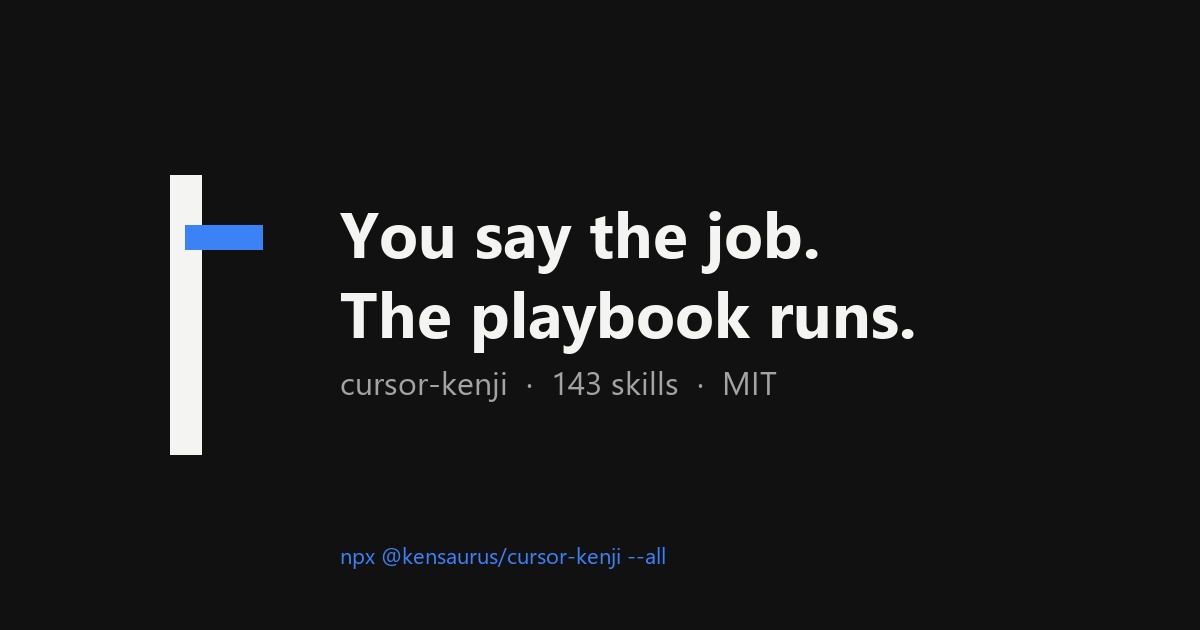
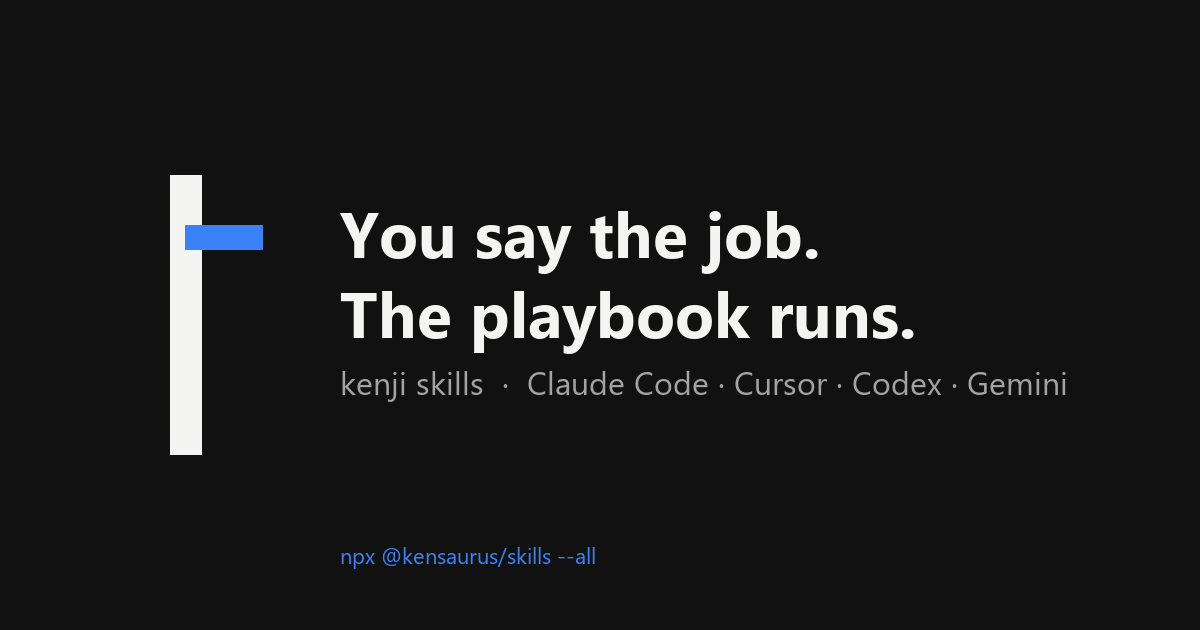
feat(installer): --typecheck-hook sets up the background typecheck per repo; re-render brand images
- npx @kensaurus/skills --typecheck-hook [script], run from a repo root, copies stop-typecheck.mjs to .claude/hooks/ and registers it as an asyncRewake Stop hook in .claude/settings.json. It is idempotent, keeps the user's hooks and settings, warns about a remaining blocking typecheck hook, and refuses a repo without the script. Per repo only: a global Stop hook would run in every repo.
- stop-typecheck.mjs exits 0 when package.json lacks the script, instead of waking the agent with a missing-script error.
- assets/og.png, site/og.png and the README hero images show kenji skills and the current counts. The OG image lists the tools instead of a count, so it can't go stale.

Changed region(s): [[0.2775, 0.573, 0.8942, 0.6333], [0.4008, 0.8746, 0.555, 0.9048]]

diff --git a/docs/screenshots/src/showcase.html b/docs/screenshots/src/showcase.html
@@ -194,8 +194,8 @@
     const views = {
       hero: `
         <div class="top">
-          <div class="brand">kenji <span>playbooks for your coding agent</span></div>
-          <div class="meta">143 skills · 55 commands · 4 tools</div>
+          <div class="brand">kenji skills <span>playbooks for your coding agent</span></div>
+          <div class="meta">158 skills · 63 commands · 4 tools</div>
         </div>
         <div>
           <div class="headline">You say the job. The playbook runs.</div>

diff --git a/scripts/render-brand-assets.py b/scripts/render-brand-assets.py
@@ -65,7 +65,8 @@ def og(path: Path) -> None:
     x = 340
     d.text((x, 188), "You say the job.", font=title, fill=BONE)
     d.text((x, 268), "The playbook runs.", font=title, fill=BONE)
-    d.text((x, 360), "kenji  ·  143 skills  ·  MIT", font=sub, fill=MUTED)
+    # Tool names, not a count: a count goes stale every release.
+    d.text((x, 360), "kenji skills  ·  Claude Code · Cursor · Codex · Gemini", font=sub, fill=MUTED)
     d.text((x, 540), "npx @kensaurus/skills --all", font=micro, fill=BLUE)
     im.save(path, "PNG")
 
